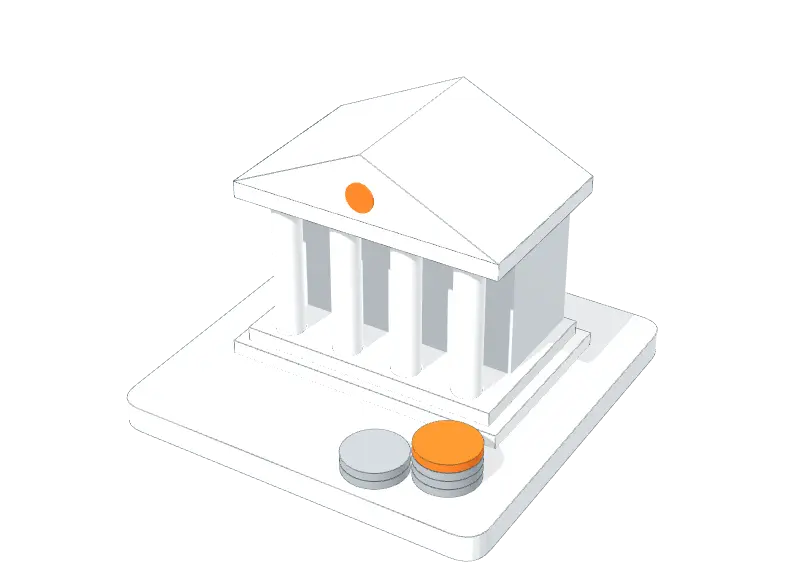
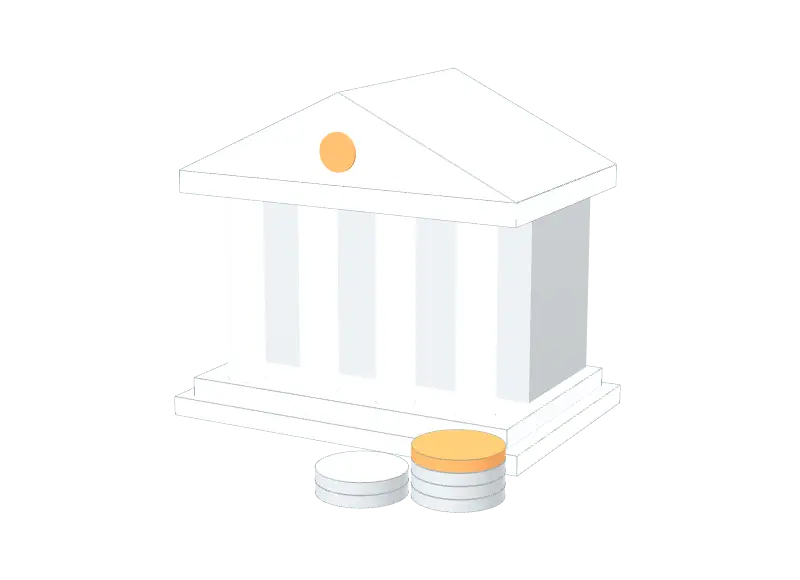
v9 business: industry illustrations match the site's 3D devices
Re-rendered with the exact GL device look (same colour pipeline, lights
and accent as the switchboard breaker, no plinth or shadows, front 3/4
view) and placed on a light grey stage so white models read on white
tiles.

Claude-Session: https://claude.ai/code/session_01WLrLLLi2rdf63T2Vn987aT

diff --git a/tools/ill-render.html b/tools/ill-render.html
@@ -5,12 +5,12 @@
 const canvas = document.getElementById('c');
 const renderer = new THREE.WebGLRenderer({ canvas, antialias: true, alpha: true, preserveDrawingBuffer: true });
 renderer.setPixelRatio(1); renderer.setSize(960, 720, false); renderer.setClearColor(0, 0);
-renderer.shadowMap.enabled = true; renderer.shadowMap.type = THREE.PCFSoftShadowMap; renderer.outputEncoding = THREE.sRGBEncoding;
+renderer.shadowMap.enabled = false; renderer.shadowMap.type = THREE.PCFSoftShadowMap; renderer.outputEncoding = THREE.sRGBEncoding;
 
-const M = (c, r = .62, m = .05) => new THREE.MeshStandardMaterial({ color: new THREE.Color(c).convertSRGBToLinear(), roughness: r, metalness: m });
-const BODY = M('#EEF0F1'), PANEL = M('#FAFBFB', .5), DARK = M('#2A3940', .7), METAL = M('#C9CFD3', .4, .35), GRILLE = M('#3B4A52', .6), ORANGE = M('#F47920', .55), SOFT = M('#DCE1E4', .7);
+const M = (c, r = .62, m = .05) => new THREE.MeshStandardMaterial({ color: c, roughness: r, metalness: m });
+const BODY = M('#EEF0F1'), PANEL = M('#FAFBFB', .5), DARK = M('#2A3940', .7), METAL = M('#C9CFD3', .4, .35), GRILLE = M('#3B4A52', .6), ORANGE = M('#D4561A', .55), SOFT = M('#DCE1E4', .7);
 const GLASS = M('#3B4A52', .25, .2);
-const LINE = new THREE.LineBasicMaterial({ color: new THREE.Color('#24363F').convertSRGBToLinear(), transparent: true, opacity: .55 });
+const LINE = new THREE.LineBasicMaterial({ color: '#24363F', transparent: true, opacity: .55 });
 function add(g, geom, mat, x = 0, y = 0, z = 0, edges = true, rot) {
   const m = new THREE.Mesh(geom, mat); m.position.set(x, y, z); if (rot) m.rotation.set(...rot); m.castShadow = true; m.receiveShadow = true; g.add(m);
   if (edges) { const l = new THREE.LineSegments(new THREE.EdgesGeometry(geom, 28), LINE); l.position.copy(m.position); l.rotation.copy(m.rotation); g.add(l); }
@@ -28,7 +28,7 @@ const cylY = (r, h, seg = 40, open = false) => new THREE.CylinderGeometry(r, r, 
 function prism(w, h, d) { const s = new THREE.Shape(); s.moveTo(-w / 2, 0); s.lineTo(w / 2, 0); s.lineTo(0, h); s.lineTo(-w / 2, 0);
   const g = new THREE.ExtrudeGeometry(s, { depth: d, bevelEnabled: false }); g.translate(0, 0, -d / 2); return g; }
 
-function plinth(g) { add(g, slab(3.2, 3.2, .22, .22), BODY, 0, -.11, 0); }
+function plinth(g) {}
 
 const SCENES = {
   retail() { // storefront with a striped awning
@@ -81,7 +81,7 @@ const SCENES = {
     const g = new THREE.Group(); plinth(g);
     add(g, box(2.4, .12, 1.6), PANEL, 0, .06, -.2); add(g, box(2.2, .12, 1.45), BODY, 0, .18, -.2);
     for (let i = 0; i < 4; i++) add(g, cylY(.12, 1.2, 32), PANEL, -.81 + i * .54, .84, .35);
-    add(g, box(2.0, 1.2, .9), SOFT, 0, .84, -.45, false);
+    add(g, box(2.0, 1.2, .9), METAL, 0, .84, -.45, false);
     add(g, box(2.3, .14, 1.5), BODY, 0, 1.51, -.2);
     add(g, prism(2.3, .55, 1.5), PANEL, 0, 1.58, -.2);
     add(g, cylY(.12, .02, 32), ORANGE, 0, 1.78, .56, false, [Math.PI / 2, 0, 0]);
@@ -101,17 +101,17 @@ const SCENES = {
 };
 
 const scene = new THREE.Scene();
-scene.add(new THREE.HemisphereLight(0xffffff, 0x8f9aa1, .85));
-const key = new THREE.DirectionalLight(0xffffff, 1.05); key.position.set(-4, 7, 5); key.castShadow = true;
+scene.add(new THREE.HemisphereLight(0xffffff, 0xb9c2c7, 1.05));
+const key = new THREE.DirectionalLight(0xffffff, 1.1); key.position.set(-3, 5, 6);
 key.shadow.mapSize.set(2048, 2048); Object.assign(key.shadow.camera, { left: -4, right: 4, top: 4, bottom: -4, near: .5, far: 30 }); key.shadow.bias = -.0008; key.shadow.radius = 6;
 scene.add(key); const rim = new THREE.DirectionalLight(0xffffff, .45); rim.position.set(5, 2, -4); scene.add(rim);
 const camera = new THREE.PerspectiveCamera(24, 960 / 720, .1, 100);
 
 window.renderScene = name => {
   scene.children.filter(o => o.userData.model).forEach(o => scene.remove(o));
-  const g = SCENES[name](); g.userData.model = true; g.rotation.y = -.55; scene.add(g);
+  const g = SCENES[name](); g.userData.model = true; g.rotation.set(.22, -.5, 0, 'XYZ'); scene.add(g);
   const bb = new THREE.Box3().setFromObject(g), c = bb.getCenter(new THREE.Vector3()), r = bb.getBoundingSphere(new THREE.Sphere()).radius;
-  const dir = new THREE.Vector3(0, .62, 1).normalize(), dist = r / Math.sin(THREE.MathUtils.degToRad(24 / 2)) * .82;
+  const dir = new THREE.Vector3(0, 0, 1), dist = r / Math.sin(THREE.MathUtils.degToRad(24 / 2)) * .86;
   camera.position.copy(c).addScaledVector(dir, dist); camera.lookAt(c); camera.updateProjectionMatrix();
   renderer.render(scene, camera); return canvas.toDataURL('image/png');
 };

diff --git a/v9/index.html b/v9/index.html
@@ -1223,13 +1223,13 @@ html[data-aud="biz"] main { overflow-x: clip; }
 .ind svg * { stroke-dasharray: 1; stroke-dashoffset: 1; transition: stroke-dashoffset 1.4s cubic-bezier(.65,0,.35,1) calc(var(--d, 0) * 110ms + .35s); }
 .ind.in svg * { stroke-dashoffset: 0; }
 /* industries: 3D clay illustrations (same materials as the GL devices) */
-.ind-art { display: block; width: calc(100% + 24px); height: 230px; margin: -10px -12px 0; object-fit: contain; transform: translateY(18px) scale(.92); opacity: 0;
+.ind-art { display: block; width: 100%; height: 230px; margin: 0 0 6px; padding: 8px 0; box-sizing: border-box; object-fit: contain; background: #ECEFF0; border-radius: 12px; transform: translateY(18px) scale(.92); opacity: 0;
   transition: opacity .7s ease calc(var(--d, 0) * 110ms + .45s), transform 1.1s cubic-bezier(.16,1,.3,1) calc(var(--d, 0) * 110ms + .45s); }
 .ind.in .ind-art { opacity: 1; transform: none; }
 .ind-grid { border-left: 0; border-right: 1px solid #D5DADD; }
 .ind-grid .ind { border-right: 0; border-bottom: 0; box-shadow: inset 1px 0 0 #D5DADD, inset 0 -1px 0 #D5DADD; }
 .ind.in.done .ind-art { transition: transform .6s cubic-bezier(.16,1,.3,1); }
-.ind.in:hover .ind-art { transform: translateY(-8px) scale(1.04); }
+.ind.in:hover .ind-art { transform: translateY(-6px) scale(1.02); background-color: #F4F5F5; }
 /* directions: pinned stage, the GL device morphs per system, panes flip in 3D */
 .bdx { position: relative; }
 .bdx-track { height: 300vh; }
